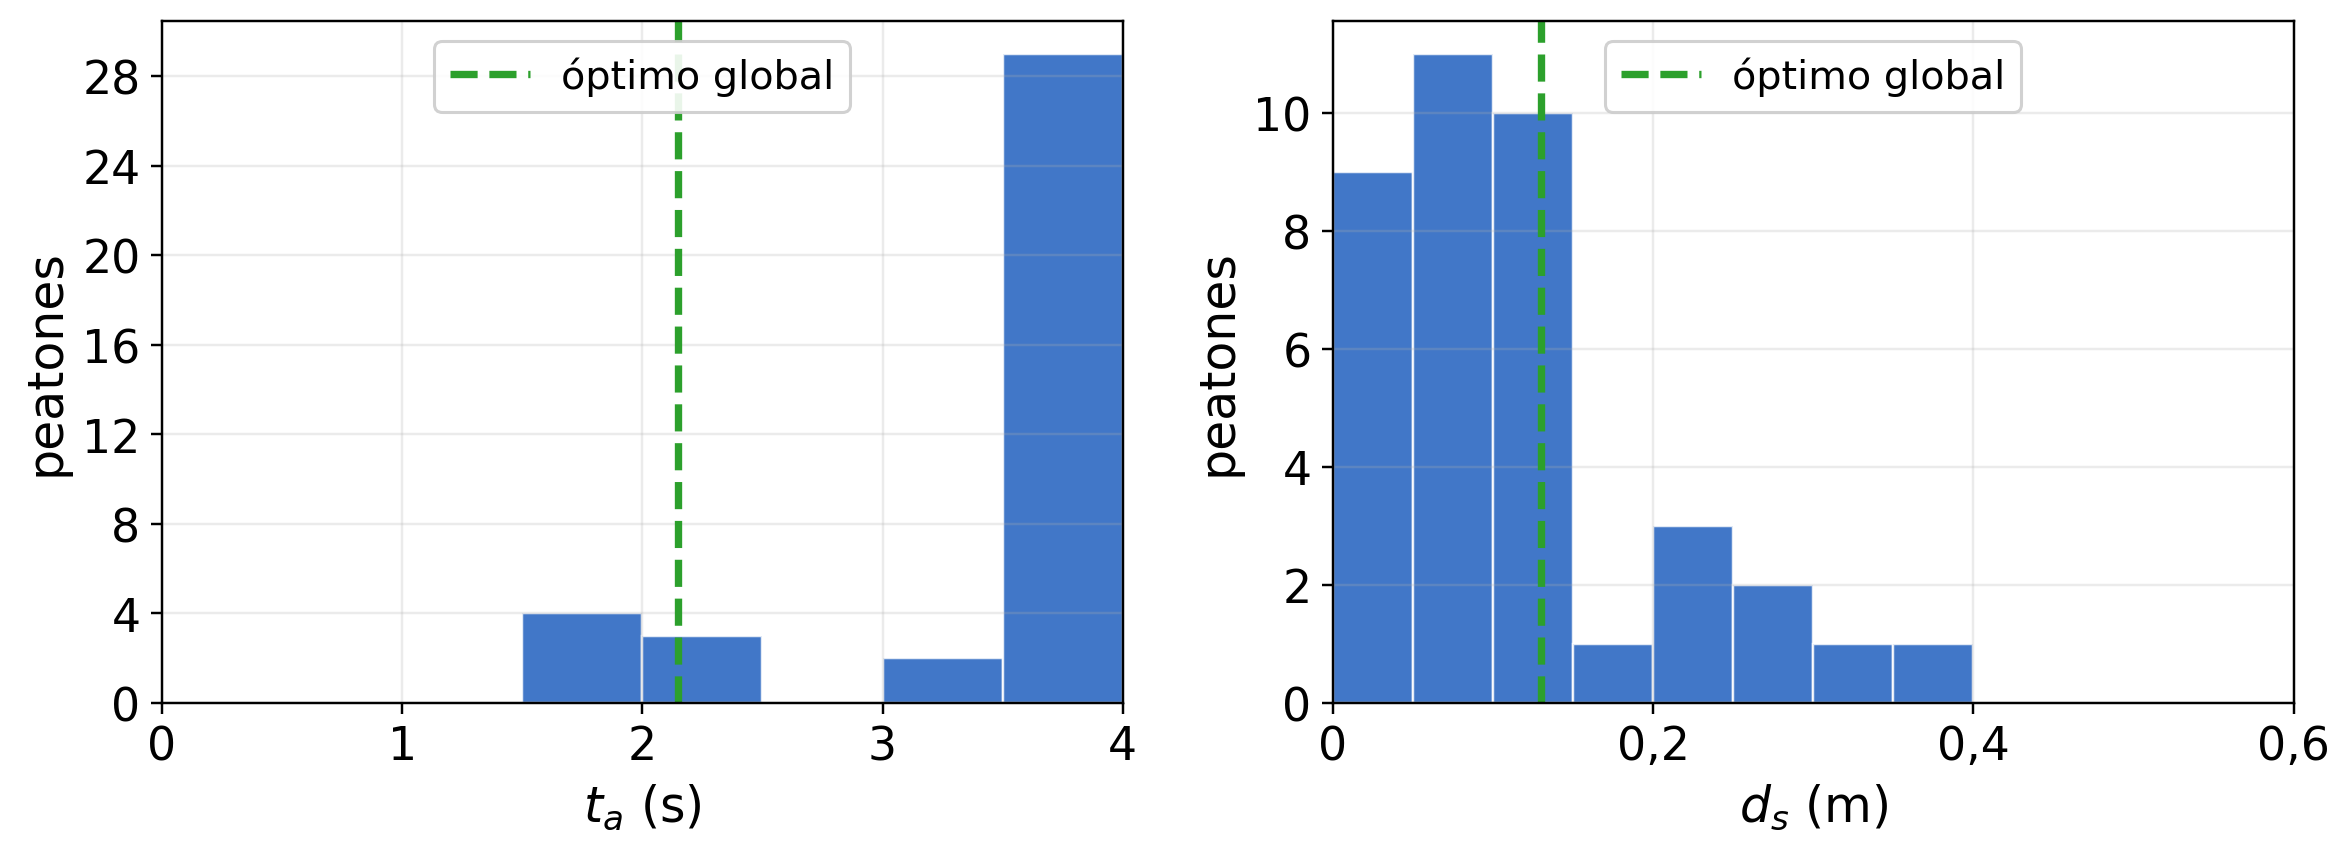
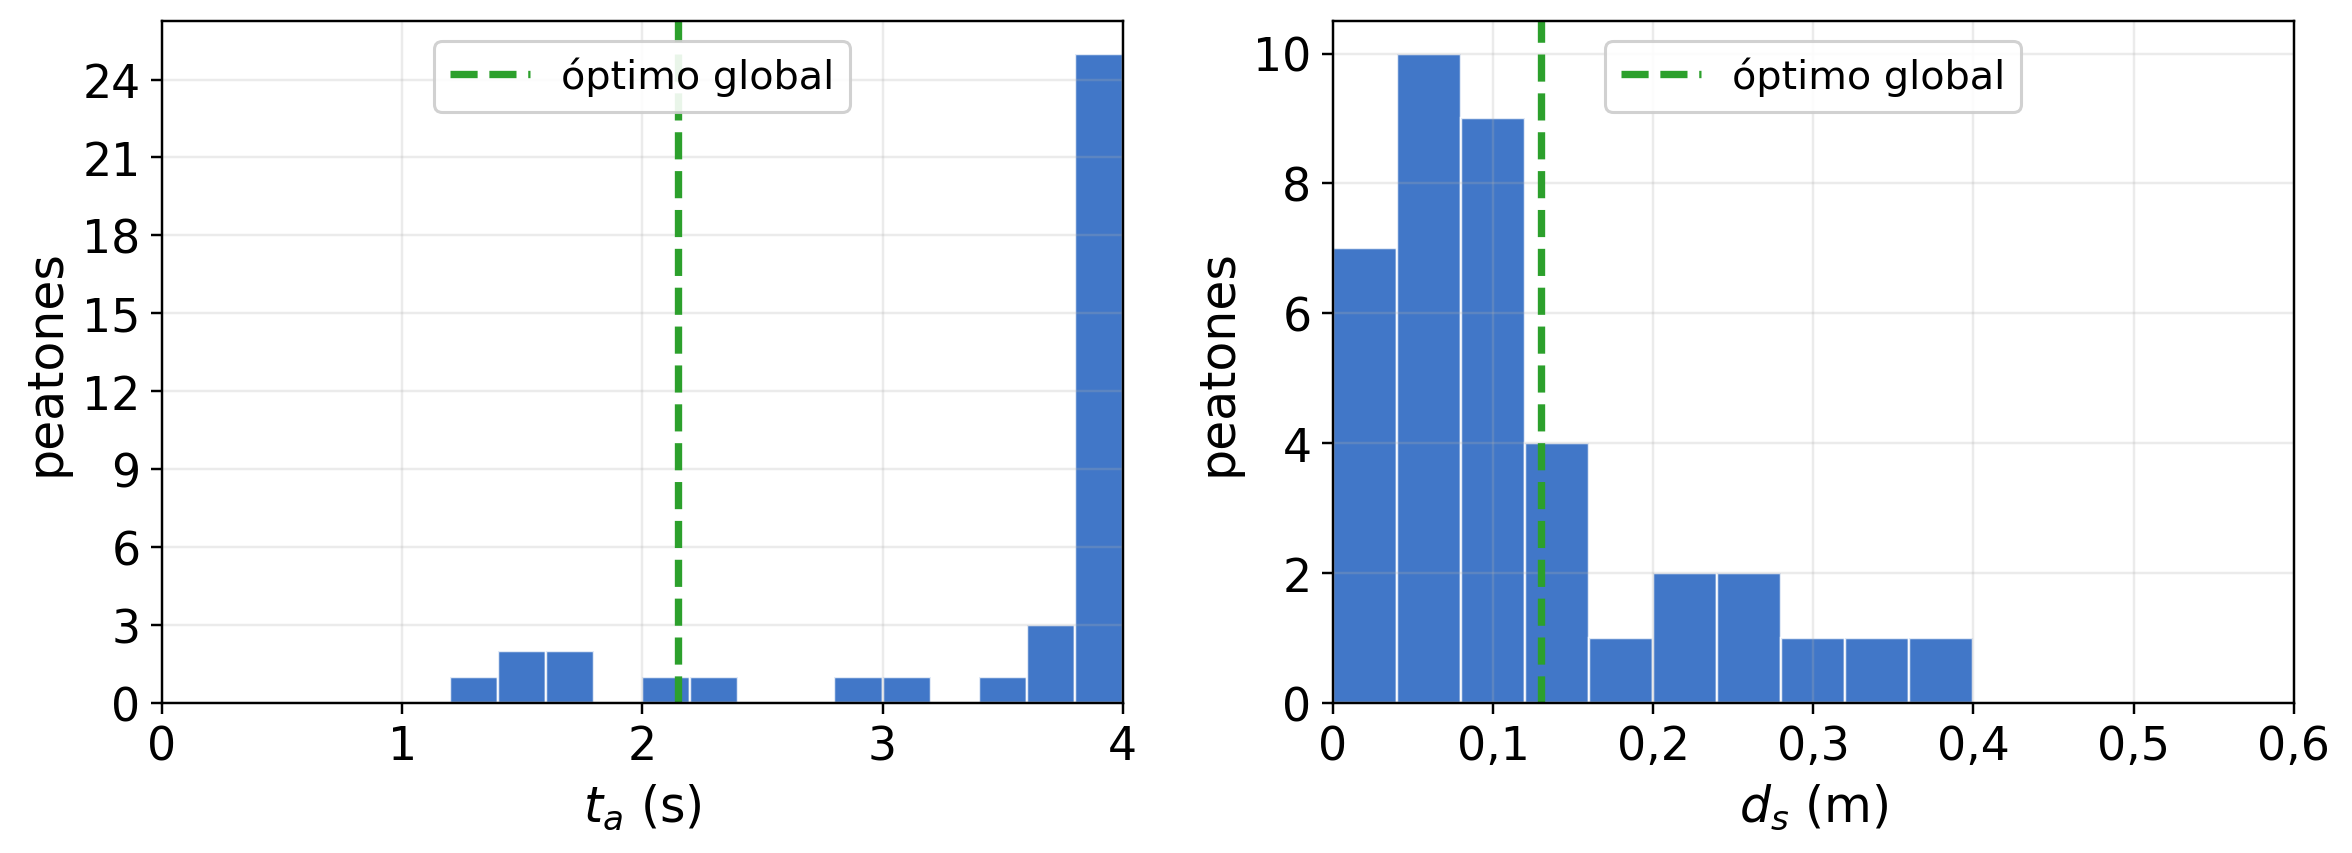
Cuatro parámetros con grilla 41 x 31: histogramas más finos y cifras actualizadas

diff --git a/report/presentacion.tex b/report/presentacion.tex
@@ -507,7 +507,7 @@
               \num{93879} corridas, \SI{32}{\second}; el techo de $t_a$ se
               verifica aparte hasta \SI{8}{\second}.
         \item \textbf{Individual}: por evento (2 parámetros) y por peatón (4
-              por evento, sobre una grilla de $17 \times 25$).
+              por evento, sobre una grilla de $41 \times 31$).
         \item \textbf{Validación cruzada}: 500 particiones de 13/6, más dejando
               uno afuera.
         \cond{una curva por evento; la horizontal es $2r$}
@@ -735,7 +735,7 @@
         \colvin{%
             \item Cuatro parámetros por evento, dos por peatón. Los dos agentes
                   están acoplados, así que el mínimo se busca en la grilla de
-                  los cuatro a la vez: $425 \times 425$ combinaciones por evento.
+                  los cuatro a la vez: $1271 \times 1271$ combinaciones por evento.
             \item Histograma de los 38 óptimos de cada parámetro, con el óptimo
                   global como línea vertical.}
         \colvin{%
@@ -743,7 +743,7 @@
                   es la asimetría del reparto, vista en los parámetros. En
                   $t_a$, 29 de los 38 piden \SI{3.5}{\second} o más; en $d_s$,
                   30 quedan en \SI{0.15}{\meter} o menos.
-            \cond{métrica 1; grilla de $17 \times 25$ pares por peatón}}
+            \cond{métrica 1; grilla de $41 \times 31$ pares por peatón}}
     }
 \end{frame}
 
@@ -751,10 +751,10 @@
     \figbulw[0.45em]{slide-30-errores-por-peaton.png}{%
         \item $E_m$ de cada evento con un juego para todos, con dos por evento y
               con cuatro por evento, los tres sobre \textbf{la misma grilla}.
-        \item \alert{Con dos por evento \mEuno{} baja un \SI{24}{\percent}
+        \item \alert{Con dos por evento \mEuno{} baja un \SI{23}{\percent}
               ($0{,}063 \to \SI{0.048}{\meter\squared}$); con cuatro, un
               \SI{11}{\percent} más} ($\to 0{,}043$; pareado
-              $0{,}005 \pm 0{,}001$). Con la métrica 2, \SI{27}{\percent} y
+              $0{,}005 \pm 0{,}001$). Con la métrica 2, \SI{26}{\percent} y
               \SI{31}{\percent} más.
         \item Describe pero \textbf{no predice}: para un par nuevo no hay con
               qué estimar sus cuatro parámetros. Lo que se valida en el ítem d

diff --git a/engine/src/command_pairs.cpp b/engine/src/command_pairs.cpp
@@ -49,8 +49,8 @@
 int runPairs(const Arguments& arguments) {
   const Experiment experiment = experimentFromArguments(arguments);
   const Model model = modelFromArguments(arguments);
-  const std::vector<double> anticipations = linearGrid("p1", arguments.text("p1", "0:4:17"));
-  const std::vector<double> margins = linearGrid("p2", arguments.text("p2", "0:0.6:25"));
+  const std::vector<double> anticipations = linearGrid("p1", arguments.text("p1", "0:4:41"));
+  const std::vector<double> margins = linearGrid("p2", arguments.text("p2", "0:0.6:31"));
   const int subdivisions = arguments.integer("subdivisiones", 64);
   const std::string directory = arguments.text("dir", "../data/individual");
   const unsigned available = std::max(1u, std::thread::hardware_concurrency());

diff --git a/engine/src/main.cpp b/engine/src/main.cpp
@@ -17,7 +17,7 @@ void printUsage() {
       << "              [--dir ../data/barrido]\n\n"
       << "  asymmetry   [--p1 2.15] [--p2 0:0.6:61] [--alfas 0:1:41]\n"
       << "              [--subdivisiones 64] [--dir ../data/asimetria]\n\n"
-      << "  pairs       [--p1 0:4:17] [--p2 0:0.6:25] [--subdivisiones 64]\n"
+      << "  pairs       [--p1 0:4:41] [--p2 0:0.6:31] [--subdivisiones 64]\n"
       << "              [--dir ../data/individual]\n\n"
       << "  convergence [--p1 2] [--p2 0.4] [--subdivisiones 1,2,...,512]\n"
       << "              [--dir ../data/convergencia]\n\n"

diff --git a/README.md b/README.md
@@ -189,7 +189,7 @@ make corridas              # los 19 eventos con cada óptimo y con la capa apaga
 make check                 # validación: métricas recalculadas en Python, contactos, grilla temporal
 make poblacional-figuras   # ítem b: mapa de <E>(t_a,d_s) y cortes, por métrica
 make individual-figuras    # ítem c: histogramas de los óptimos individuales y error por evento
-make pares                 # ítem c opcional: los 4 parámetros por evento, 2 por peatón (5 min con 8 hilos)
+make pares                 # ítem c opcional: los 4 parámetros por evento, 2 por peatón (44 min con 8 hilos)
 make pares-figuras         # ítem c opcional: histogramas de los óptimos por peatón y el error con 1, 2 y 4 juegos
 make residuo-figuras       # de dónde viene el error que queda: ritmo/forma y lado
 make validacion-figuras    # ítem d: validación cruzada
@@ -217,7 +217,7 @@ cd engine && make
 ./build/elusion events                                     # verifica la lectura de los datos
 ./build/elusion run --pruebas 10 --p1 2.15 --p2 0.13       # una corrida con cuadros
 ./build/elusion sweep --p1 0:4:81 --p2 0:0.6:61            # la grilla de parámetros
-./build/elusion pairs --p1 0:4:17 --p2 0:0.6:25            # los 4 parámetros por evento (2 c opcional)
+./build/elusion pairs --p1 0:4:41 --p2 0:0.6:31            # los 4 parámetros por evento (2 c opcional)
 ./build/elusion asymmetry --p1 2.15 --alfas 0:1:41         # extra: el reparto de la elusión
 ./build/elusion convergence --subdivisiones 1,2,4,...,512  # el paso de integración
 ```
@@ -506,35 +506,36 @@ No es el barrido de dos parámetros hecho dos veces: **los dos agentes están
 acoplados**, así que el error de cada peatón depende también de los parámetros
 del otro (si el de la izquierda se corre más, el de la derecha necesita
 correrse menos). El mínimo hay que buscarlo en la grilla de los cuatro a la
-vez, que es lo que hace el comando `pairs` del motor: `425 × 425 = 180 625`
-combinaciones por evento, 3,4 millones de corridas en total (5 min repartidas
-en 8 hilos). La grilla de cada peatón es más gruesa que la del ítem b —paso de
-0,25 s y de 0,025 m— porque el costo va al cuadrado; `make pares-noche` lo
-repite con el paso fino (`4941 × 4941` por evento, unas 11 h con 8 hilos). Se
+vez, que es lo que hace el comando `pairs` del motor: `1271 × 1271 ≈ 1,6 millones`
+de combinaciones por evento, 30,7 millones de corridas en total (44 min
+repartidas en 8 hilos). La grilla de cada peatón tiene el doble del paso de la
+del ítem b —0,1 s y 0,02 m— porque el costo va al cuadrado; `make pares-noche`
+lo repite con el paso fino (`4941 × 4941` por evento, unas 11 h con 8 hilos). Se
 minimiza `E_m`, el promedio sobre los 2 peatones, que es lo que el enunciado
 define como error del evento.
 
-La grilla es más gruesa que la de la calibración poblacional —`t_a` en 17
-valores de 0 a 4 s, `d_s` en 25 de 0 a 0,6 m— porque el costo va al cuadrado.
-Para que la comparación diga algo, **los tres juegos se miden sobre esa misma
+La grilla es `t_a` en 41 valores de 0 a 4 s y `d_s` en 31 de 0 a 0,6 m. Con
+una grilla cuatro veces más gruesa en cada eje (17 × 25) los números de la
+tabla son los mismos hasta el segundo decimal del porcentaje: el resultado no
+depende del paso. Para que la comparación diga algo, **los tres juegos se miden sobre esa misma
 grilla**: una grilla más fina baja el error de los tres a la vez. Por eso el
 "poblacional" y el "2 por evento" de esta tabla no son exactamente los de
-arriba, que salen de la grilla fina (en esta grilla, con `t_a` de a 0,25 s, el
-óptimo poblacional de la métrica 1 cae en 4,00 s y 0,10 m).
+arriba, que salen de la grilla fina (en esta grilla el óptimo poblacional de la
+métrica 1 cae en 2,10 s y 0,14 m).
 
 | | métrica 1 | métrica 2 |
 |---|---|---|
-| poblacional (1 juego) | 0,0634 m² | 0,0192 m² |
-| 2 por evento (ítem c) | 0,0484 m² (−24 %) | 0,0141 m² (−27 %) |
-| **4 por evento (opcional)** | **0,0433 m² (−11 % más)** | **0,0097 m² (−31 % más)** |
-| ganancia pareada, 4 contra 2 | 0,0051 ± 0,0012 m² (4,3 σ) | 0,0044 ± 0,0011 m² (4,1 σ) |
-| los dos peatones eligen el mismo par | 0 de 19 | 1 de 19 |
+| poblacional (1 juego) | 0,0626 m² | 0,0191 m² |
+| 2 por evento (ítem c) | 0,0483 m² (−23 %) | 0,0141 m² (−26 %) |
+| **4 por evento (opcional)** | **0,0432 m² (−11 % más)** | **0,0097 m² (−31 % más)** |
+| ganancia pareada, 4 contra 2 | 0,0051 ± 0,0012 m² (4,2 σ) | 0,0044 ± 0,0011 m² (4,1 σ) |
+| los dos peatones eligen el mismo par | 0 de 19 | 0 de 19 |
 
 Se muestra como histograma de los 38 óptimos de cada parámetro, con la línea
 vertical en el óptimo global del ítem b. Lo que se lee:
 
-1. **Los dos peatones de un par casi nunca quieren los mismos parámetros** (0
-   de 19 con la métrica 1, 1 de 19 con la 2). Es la misma asimetría que se
+1. **Los dos peatones de un par nunca quieren los mismos parámetros** (0 de 19
+   con las dos métricas). Es la misma asimetría que se
    mide directamente en las trayectorias y que el extra de `α` describe con un
    solo número: en cada par uno de los dos cede más.
 2. **En `t_a`, 29 de los 38 peatones piden 3,5 s o más**, igual que en el ítem

diff --git a/report/guion.md b/report/guion.md
@@ -233,14 +233,14 @@ están en el README (21, 26, 35, 33, 30, 10, 16, en ese orden).
 
 - Cuatro parámetros por evento, dos por peatón. Los dos agentes están
   acoplados, así que el mínimo se busca en la grilla de los cuatro a la vez:
-  425 × 425 combinaciones por evento, 3,4 millones de corridas.
+  1271 × 1271 combinaciones por evento, 30,7 millones de corridas.
 - Histograma de los 38 óptimos con el global como línea vertical. En ningún
   evento los dos peatones eligen el mismo par: es la asimetría del reparto.
 
 ## 30. Opcional: cuánto se gana — `slide-30-errores-por-peaton.png` — 0:15
 
-- Sobre la misma grilla: con dos por evento ⟨E(1)⟩ baja 24 %, con cuatro un
-  11 % más (27 % y 31 % más con la métrica 2). Describe pero no predice: para
+- Sobre la misma grilla: con dos por evento ⟨E(1)⟩ baja 23 %, con cuatro un
+  11 % más (26 % y 31 % más con la métrica 2). Describe pero no predice: para
   un par nuevo no hay con qué estimar sus cuatro parámetros.
 
 ## 31. Ritmo y forma — `slide-31-residuo-descomposicion.png` — 0:15
